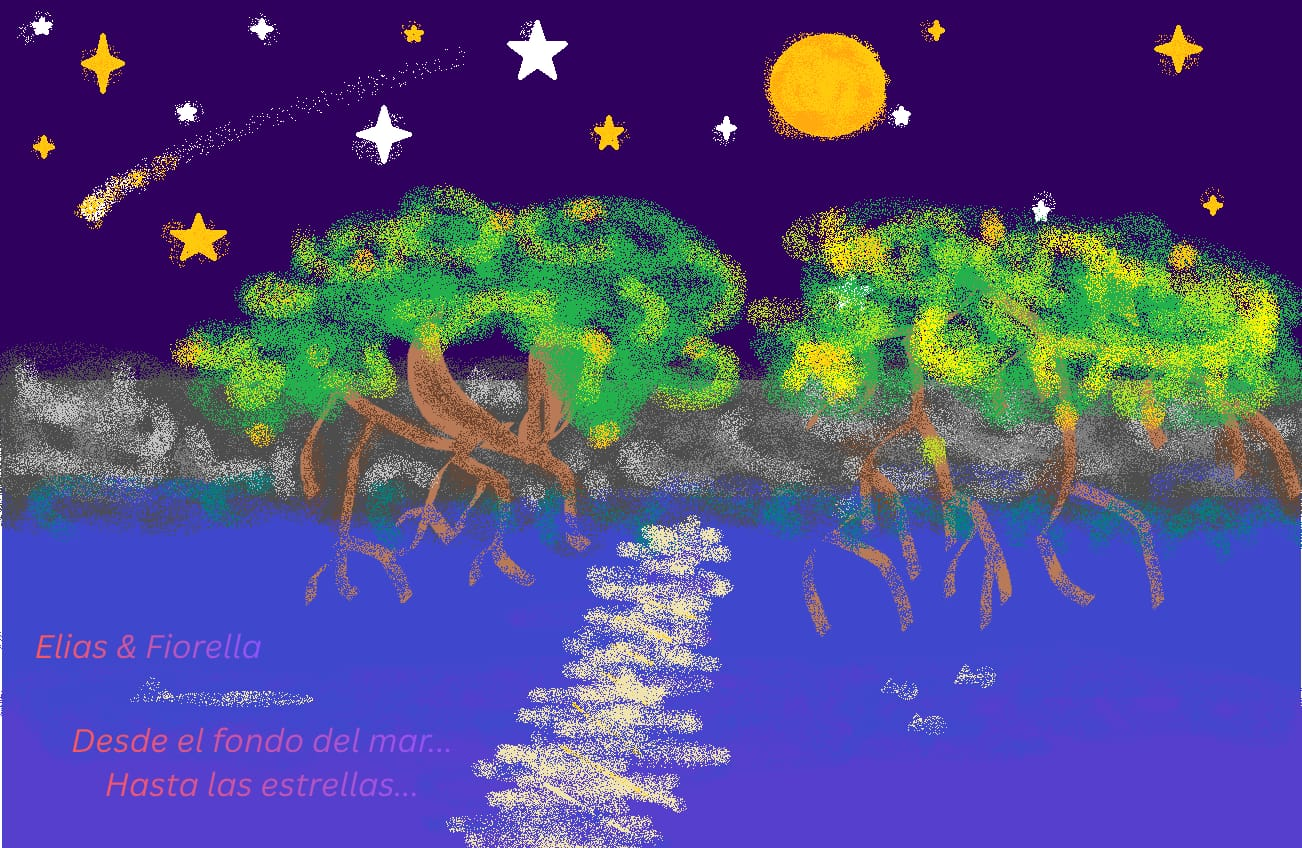
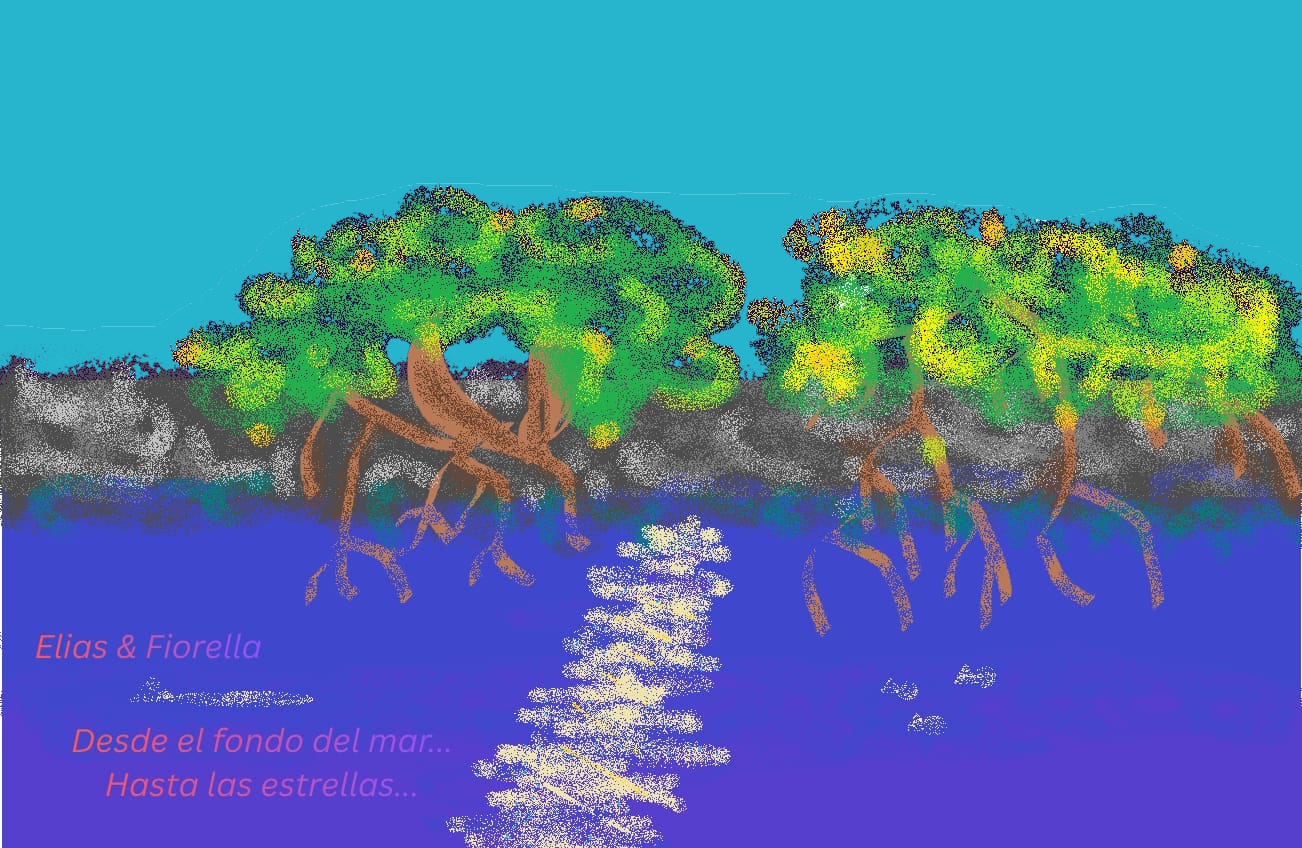
rah

diff --git a/style.css b/style.css
@@ -1,12 +1,51 @@
 body {
-    background-image: url("background.jpg");
-    background-size: cover;
-    background-repeat: no-repeat;
-    background-position: center top;
-
     margin: 0;
     color: white;
     font-family: sans-serif;
+
+    background:
+        url("top.png") top center no-repeat,
+        url("bottom.png") bottom center no-repeat,
+
+        repeating-linear-gradient(
+            to bottom,
+            #2F005E 0px,
+            #2F005E 32px,
+
+            #3A1A78 32px,
+            #3A1A78 64px,
+
+            #453492 64px,
+            #453492 96px,
+
+            #504EAC 96px,
+            #504EAC 128px,
+
+            #5B68C6 128px,
+            #5B68C6 160px,
+
+            #6682E0 160px,
+            #6682E0 192px,
+
+            #719CFA 192px,
+            #719CFA 224px,
+
+            #5EBBE3 224px,
+            #5EBBE3 256px,
+
+            #26B5CC 256px,
+            #26B5CC 288px
+        );
+
+    background-size:
+        100% auto,
+        100% auto,
+        100% 100%;
+
+    background-repeat:
+        no-repeat,
+        no-repeat,
+        repeat-y;
 }
 
 #header {
